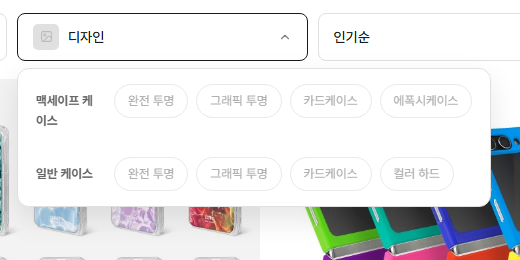
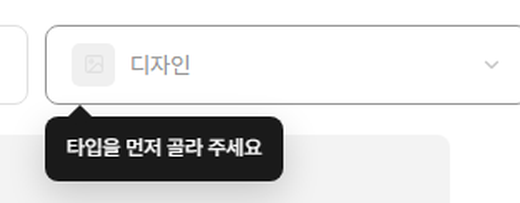
db: 필터 잠금 동작을 문서에 반영
§2 사진 3장이 옛 동작이었다. 1번은 '타입을 안 골라도 디자인 두 줄이
모두 보인다' 였는데 이제 잠겨 있고, 3번의 줄 이름은 '기능' 에서
'카드케이스 기능' 으로 바뀌었다. 사진만 갈면 글과 어긋나므로
설명도 같이 고쳤다.

'위를 골라야 아래가 정해집니다' → '열립니다. 순서를 건너뛸 수 없습니다'

덧붙인 문단 — 박스가 사라지는 것과 잠기는 것은 다르다.
체인지톡에 「기종」 박스가 없는 건 그 제품군에 기종이 없어서 아예 빠진
것이고, 카드지갑의 「형태」는 자리에 있으면서 흐리게 잠긴 것이다.
둘을 같은 걸로 보면 '원래 없는 축' 과 '아직 차례가 아닌 축' 을
구별할 수 없다.

사진은 좌표를 눈대중으로 자르지 않고 크롬을 두 번 돌려서 받았다 —
한 번은 --dump-dom 으로 대상의 getBoundingClientRect 를 읽고, 한 번은
--screenshot 으로 그림을 받아 그 좌표로 자른다(shots.py). 가상시간이라
두 번 다 같은 상태가 나온다.

찍다 걸린 것: 1번 사진의 안내 말풍선이 2.6초 뒤 스스로 사라져서,
좌표는 보일 때 쟀는데 그림은 사라진 뒤라 빈 칸이 나왔다. 사진 찍을
때까지 붙잡아 두도록 고쳤다.

Claude-Session: https://claude.ai/code/session_0188W7H4jsHx8kaA9RNjfe2i

diff --git a/db/index.html b/db/index.html
@@ -464,22 +464,24 @@ figure.chart svg{display:block;width:100%;height:auto}
   <div class="sn">§ 2</div>
   <div class="sbody">
     <h2>이번 필터는 전과 다릅니다</h2>
-    <p class="sublede">전에는 「기종」·「테마」·「가격」이 서로 상관없이 나란히 있었습니다. 이번에는 <strong>위를 골라야 아래가 정해집니다.</strong> 케이스에서 실제로 눌러 본 모습입니다.</p>
+    <p class="sublede">전에는 「기종」·「테마」·「가격」이 서로 상관없이 나란히 있었습니다. 이번에는 <strong>위를 골라야 아래가 열립니다.</strong> 순서를 건너뛸 수 없습니다. 케이스에서 실제로 눌러 본 모습입니다.</p>
 
     <div class="steps3">
       <figure class="shot">
-        <img src="img/step1.png" alt="아무것도 안 고른 상태 — 맥세이프 케이스와 일반 케이스 두 줄이 모두 보인다">
-        <figcaption><span class="stepn">1</span> 아직 아무것도 안 골랐을 때<br><span class="dim">맥세이프용 4개, 일반용 4개가 모두 보입니다</span></figcaption>
+        <img src="img/step1.png" alt="디자인 박스가 흐리게 잠겨 있고, 누르면 타입을 먼저 골라 주세요 라는 안내가 뜬다">
+        <figcaption><span class="stepn">1</span> 타입을 안 골랐으면 디자인은 잠겨 있습니다<br><span class="dim">눌러도 안 열리고 왜 안 되는지 알려 줍니다</span></figcaption>
       </figure>
       <figure class="shot">
-        <img src="img/step2.png" alt="타입에서 맥세이프를 고른 상태 — 맥세이프 케이스 줄만 남는다">
-        <figcaption><span class="stepn">2</span> 「맥세이프」를 골랐더니<br><span class="dim">일반 케이스 줄이 사라집니다</span></figcaption>
+        <img src="img/step2.png" alt="타입에서 맥세이프를 고르자 디자인 박스가 열리고 맥세이프용 4개가 나온다">
+        <figcaption><span class="stepn">2</span> 「맥세이프」를 골랐더니<br><span class="dim">디자인이 열리고 맥세이프용 4개만 나옵니다</span></figcaption>
       </figure>
       <figure class="shot">
-        <img src="img/step3.png" alt="디자인에서 카드케이스를 고른 상태 — 기능 줄에 도어(카드2장)와 포켓(카드1장)만 나온다">
-        <figcaption><span class="stepn">3</span> 「카드케이스」를 골랐더니<br><span class="dim">그 아래 「기능」 줄이 새로 나옵니다</span></figcaption>
+        <img src="img/step3.png" alt="카드케이스를 고르자 카드케이스 기능 줄에 도어(카드2장)와 포켓(카드1장)이 나온다">
+        <figcaption><span class="stepn">3</span> 「카드케이스」를 골랐더니<br><span class="dim">「카드케이스 기능」 줄이 새로 나옵니다</span></figcaption>
       </figure>
     </div>
+
+    <p class="sublede"><strong>박스가 사라지는 것과 잠기는 것은 다릅니다.</strong> 체인지톡을 보는데 「기종」 박스가 없는 건 — 체인지톡에 기종이 없어서 <strong>아예 빠진</strong> 것입니다. 반대로 카드지갑의 「형태」는 자리에 그대로 있으면서 <strong>흐리게 잠겨</strong> 있습니다. 「3카드팩」이나 「세로 스탠드」를 고르면 그때 열립니다. 없애 버리면 원래 없는 줄 알게 되니 자리는 남겨 둡니다.</p>
 
     <p class="sublede">이게 왜 중요하냐면 — <strong>상품에 「카드케이스」라고만 적어 두면 부족하기 때문입니다.</strong> 「맥세이프인지 일반인지」와 「카드가 몇 장 들어가는지」까지 같이 적혀 있어야 이 화면이 동작합니다. 한 상품에 <strong>세 가지를 다 적어야</strong> 합니다.</p>
   </div>
